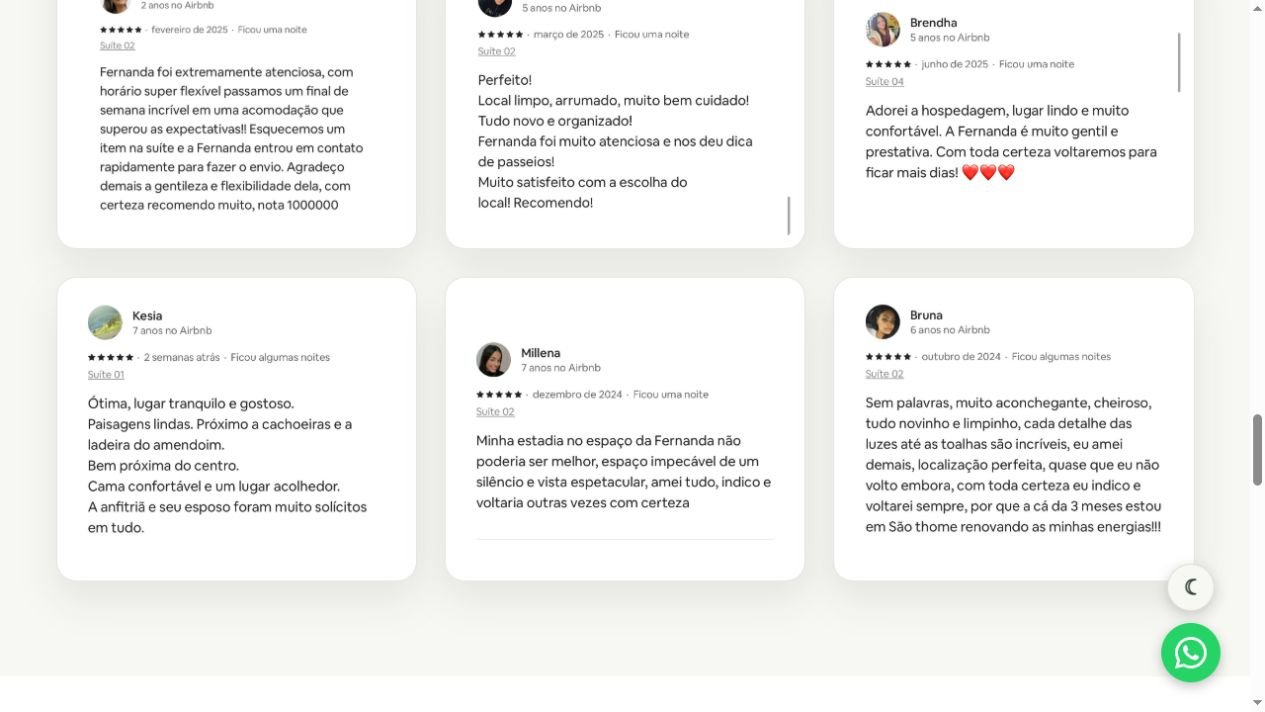
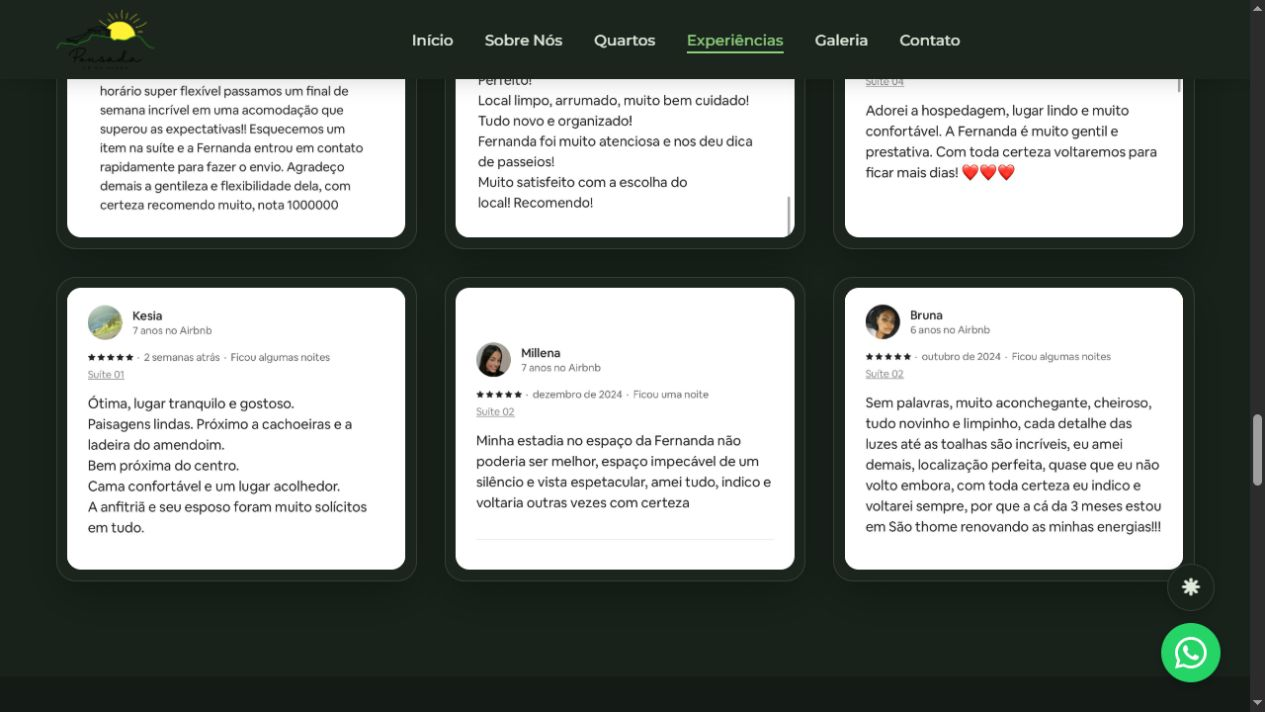
Att README feedbacks e prints

diff --git a/index.html b/index.html
@@ -10,7 +10,7 @@
   <link rel="preconnect" href="https://fonts.gstatic.com" crossorigin />
   <link href="https://fonts.googleapis.com/css2?family=Montserrat:wght@400;500;600;700&display=swap" rel="stylesheet" />
 
-  <link rel="stylesheet" href="style.css" />
+  <link rel="stylesheet" href="style.css?v=20261026" />
 </head>
 <body>
 
@@ -299,7 +299,7 @@ Seja bem-vindo à Pousada Pé da Serra STL. ❤
   <a href="https://wa.me/5535997583373?text=Ol%C3%A1%21%20Gostaria%20de%20saber%20mais%20sobre%20a%20Pousada%20P%C3%A9%20da%20Serra." target="_blank" rel="noopener" class="whatsapp-float" title="Fale conosco pelo WhatsApp" aria-label="Fale conosco pelo WhatsApp">
     <svg xmlns="http://www.w3.org/2000/svg" viewBox="0 0 24 24" fill="white" width="32px" height="32px"><path d="M17.472 14.382c-.297-.149-1.758-.867-2.03-.967-.273-.099-.471-.148-.67.15-.197.297-.767.966-.94 1.164-.173.199-.347.223-.644.075-.297-.15-1.255-.463-2.39-1.475-.883-.788-1.48-1.761-1.653-2.059-.173-.297-.018-.458.13-.606.134-.133.298-.347.446-.52.149-.174.198-.298.298-.497.099-.198.05-.371-.025-.52-.075-.149-.669-1.612-.916-2.207-.242-.579-.487-.5-.669-.51-.173-.008-.371-.01-.57-.01-.198 0-.52.074-.792.372-.272.297-1.04 1.016-1.04 2.479 0 1.462 1.065 2.875 1.213 3.074.149.198 2.096 3.2 5.077 4.487.709.306 1.262.489 1.694.625.712.227 1.36.195 1.871.118.571-.085 1.758-.719 2.006-1.413.248-.694.248-1.289.173-1.413-.074-.124-.272-.198-.57-.347z"/><path d="M12 0C5.373 0 0 5.373 0 12c0 2.123.554 4.132 1.528 5.876L0 24l6.313-1.507A11.94 11.94 0 0 0 12 24c6.627 0 12-5.373 12-12S18.627 0 12 0zm0 21.894a9.866 9.866 0 0 1-5.031-1.378l-.361-.214-3.741.981.999-3.648-.235-.374A9.867 9.867 0 0 1 2.106 12C2.106 6.58 6.58 2.106 12 2.106c5.421 0 9.894 4.474 9.894 9.894 0 5.421-4.473 9.894-9.894 9.894z"/></svg>
   </a>
-    <script src="script.js"></script>
+    <script src="script.js?v=20261026"></script>
 
 </body>
 

diff --git a/sobre.html b/sobre.html
@@ -10,7 +10,7 @@
   <link rel="preconnect" href="https://fonts.gstatic.com" crossorigin />
   <link href="https://fonts.googleapis.com/css2?family=Montserrat:wght@400;500;600;700&display=swap" rel="stylesheet" />
 
-  <link rel="stylesheet" href="style.css" />
+  <link rel="stylesheet" href="style.css?v=20261026" />
 </head>
 
 <body>
@@ -129,6 +129,6 @@
     <a href="https://wa.me/5535997583373?text=Ol%C3%A1%21%20Gostaria%20de%20saber%20mais%20sobre%20a%20Pousada%20P%C3%A9%20da%20Serra." target="_blank" rel="noopener" class="whatsapp-float" title="Fale conosco pelo WhatsApp" aria-label="Fale conosco pelo WhatsApp">
       <svg xmlns="http://www.w3.org/2000/svg" viewBox="0 0 24 24" fill="white" width="32px" height="32px"><path d="M17.472 14.382c-.297-.149-1.758-.867-2.03-.967-.273-.099-.471-.148-.67.15-.197.297-.767.966-.94 1.164-.173.199-.347.223-.644.075-.297-.15-1.255-.463-2.39-1.475-.883-.788-1.48-1.761-1.653-2.059-.173-.297-.018-.458.13-.606.134-.133.298-.347.446-.52.149-.174.198-.298.298-.497.099-.198.05-.371-.025-.52-.075-.149-.669-1.612-.916-2.207-.242-.579-.487-.5-.669-.51-.173-.008-.371-.01-.57-.01-.198 0-.52.074-.792.372-.272.297-1.04 1.016-1.04 2.479 0 1.462 1.065 2.875 1.213 3.074.149.198 2.096 3.2 5.077 4.487.709.306 1.262.489 1.694.625.712.227 1.36.195 1.871.118.571-.085 1.758-.719 2.006-1.413.248-.694.248-1.289.173-1.413-.074-.124-.272-.198-.57-.347z"/><path d="M12 0C5.373 0 0 5.373 0 12c0 2.123.554 4.132 1.528 5.876L0 24l6.313-1.507A11.94 11.94 0 0 0 12 24c6.627 0 12-5.373 12-12S18.627 0 12 0zm0 21.894a9.866 9.866 0 0 1-5.031-1.378l-.361-.214-3.741.981.999-3.648-.235-.374A9.867 9.867 0 0 1 2.106 12C2.106 6.58 6.58 2.106 12 2.106c5.421 0 9.894 4.474 9.894 9.894 0 5.421-4.473 9.894-9.894 9.894z"/></svg>
     </a>
-    <script src="script.js"></script>
+    <script src="script.js?v=20261026"></script>
   </body>
 </html>

diff --git a/style.css b/style.css
@@ -29,17 +29,19 @@
 
 html {
   scroll-behavior: auto;
+  scroll-padding-top: calc(var(--header-h) + 12px);
 }
 
 body {
   font-family: var(--font-main);
   color: var(--clr-black);
   background-color: var(--clr-white);
+  padding-top: var(--header-h);
 }
 
 html,
 body {
-  overflow-x: hidden;
+  overflow-x: clip;
 }
 
 ul { list-style: none; }
@@ -47,9 +49,14 @@ a { text-decoration: none; color: inherit; }
 img { max-width: 100%; display: block; }
 address { font-style: normal; }
 
+section[id] {
+  scroll-margin-top: calc(var(--header-h) + 12px);
+}
+
 .header {
-  position: sticky;
+  position: fixed;
   top: 0;
+  left: 0;
   z-index: 100;
   width: 100%;
   height: var(--header-h);
@@ -399,7 +406,12 @@ address { font-style: normal; }
   }
 
   .header {
-    position: relative;
+    position: fixed;
+    height: auto;
+  }
+
+  .header__container {
+    min-height: var(--header-h);
   }
 
   .hero__title {

diff --git a/script.js b/script.js
@@ -19,6 +19,22 @@
   let scrollAnimationFrame = null;
   const currentPath = window.location.pathname.split('/').pop() || 'index.html';
 
+  function syncHeaderHeight() {
+    if (!header) return;
+    const height = Math.ceil(header.getBoundingClientRect().height) + 'px';
+    if (document.documentElement.style.getPropertyValue('--header-h') !== height) {
+      document.documentElement.style.setProperty('--header-h', height);
+    }
+  }
+
+  if (header) {
+    syncHeaderHeight();
+    window.addEventListener('resize', syncHeaderHeight);
+    if ('ResizeObserver' in window) {
+      new ResizeObserver(syncHeaderHeight).observe(header);
+    }
+  }
+
   function applyTheme(theme, savePreference) {
     document.documentElement.dataset.theme = theme;
     if (themeToggle) {

diff --git a/README.md b/README.md
@@ -9,6 +9,10 @@
 </p>
 
 <p align="center">
+  🌐 <strong>Site hospedado:</strong> <a href="https://pousadapedaserra.netlify.app/">pousadapedaserra.netlify.app</a>
+</p>
+
+<p align="center">
   <img src="https://img.shields.io/badge/Projeto-Site%20institucional-239415?style=for-the-badge" alt="Site institucional" />
   <img src="https://img.shields.io/badge/Frontend-HTML%20%7C%20CSS%20%7C%20JavaScript-344532?style=for-the-badge" alt="HTML, CSS e JavaScript" />
 </p>
@@ -30,7 +34,7 @@ A pousada fica em São Thomé das Letras, destino conhecido pelas paisagens da s
 - **Contato e localização:** atalhos para WhatsApp e Instagram, além de mapa incorporado.
 - **Navegação entre páginas:** página inicial e página “Sobre”, com acesso às principais seções.
 
-## Capturas de tela
+## Capturas de tela (tema escuro)
 
 ### Página inicial
 
